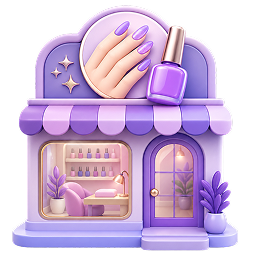
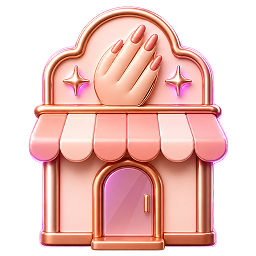
nex

diff --git a/nexora/nexora-touch-enhance.html b/nexora/nexora-touch-enhance.html
@@ -1582,13 +1582,37 @@
                         type="number" />
                     </div>
                     <!-- Chọn Cổng Thanh Toán -->
-                    <div class="pt-2 border-t border-slate-100 grid grid-cols-2 gap-1.5">
+                    <div class="pt-2 border-t border-slate-100 grid grid-cols-3 gap-1.5">
                       <button
-                        class="flex items-center justify-center bg-[#7414CA] text-white py-1.5 rounded-xl text-[10px] font-black hover:opacity-95 transition-all ds-control ds-button"
-                        onclick="confirmTip('Zelle')">Zelle (Không phí)</button>
+                        class="flex items-center justify-center gap-1 bg-[#6D1ED4] text-white py-1.5 rounded-xl text-[9px] font-black hover:opacity-90 transition-all ds-control ds-button"
+                        onclick="confirmTip('Zelle')">
+                        <svg class="w-3 h-3 shrink-0" viewBox="0 0 24 24" fill="currentColor"><path d="M12 2C6.48 2 2 6.48 2 12s4.48 10 10 10 10-4.48 10-10S17.52 2 12 2zm4.5 13.5h-5.67l5.42-7H8.5v-2h7.5l-5.42 7H16.5v2z"/></svg>
+                        Zelle</button>
                       <button
-                        class="flex items-center justify-center bg-[#0074C4] text-white py-1.5 rounded-xl text-[10px] font-black hover:opacity-95 transition-all ds-control ds-button"
-                        onclick="confirmTip('Venmo')">Venmo</button>
+                        class="flex items-center justify-center gap-1 bg-[#008CFF] text-white py-1.5 rounded-xl text-[9px] font-black hover:opacity-90 transition-all ds-control ds-button"
+                        onclick="confirmTip('Venmo')">
+                        <svg class="w-3 h-3 shrink-0" viewBox="0 0 24 24" fill="currentColor"><path d="M19.5 3.5c.83 1.37 1.2 2.78 1.2 4.57 0 5.69-4.86 13.08-8.8 13.08-1.82 0-3.36-1.69-3.99-4.5L6.6 10.9C6.17 9.05 5.43 7.5 4 7.5L4.74 6c2.06 0 4.26 2.64 4.94 5.81l.85 3.83c.4 1.77 1.1 2.5 1.8 2.5 1.66 0 4.37-5.38 4.37-8.08 0-1.72-.64-2.86-1.35-3.56L19.5 3.5z"/></svg>
+                        Venmo</button>
+                      <button
+                        class="flex items-center justify-center gap-1 bg-[#00D632] text-white py-1.5 rounded-xl text-[9px] font-black hover:opacity-90 transition-all ds-control ds-button"
+                        onclick="confirmTip('Cash App')">
+                        <svg class="w-3 h-3 shrink-0" viewBox="0 0 24 24" fill="currentColor"><path d="M12 2C6.48 2 2 6.48 2 12s4.48 10 10 10 10-4.48 10-10S17.52 2 12 2zm.88 14.76v.74h-1.5v-.72c-1.33-.18-2.28-.87-2.38-2.07h1.44c.09.55.52.92 1.35.92.87 0 1.3-.42 1.3-.98 0-.5-.32-.78-1.3-1.01l-.76-.18c-1.37-.32-2.09-1.01-2.09-2.17 0-1.14.85-1.95 2.14-2.14v-.76h1.5v.76c1.3.2 2.13.95 2.2 2.08h-1.41c-.08-.54-.48-.9-1.22-.9-.77 0-1.2.37-1.2.92 0 .49.33.76 1.22.97l.78.19c1.43.35 2.16 1.04 2.16 2.22 0 1.16-.84 2.03-2.23 2.23z"/></svg>
+                        Cash App</button>
+                      <button
+                        class="flex items-center justify-center gap-1 bg-[#1a1a1a] text-white py-1.5 rounded-xl text-[9px] font-black hover:opacity-90 transition-all ds-control ds-button"
+                        onclick="confirmTip('Apple Pay')">
+                        <svg class="w-3 h-3 shrink-0" viewBox="0 0 24 24" fill="currentColor"><path d="M18.71 19.5c-.83 1.24-1.71 2.45-3.05 2.47-1.34.03-1.77-.79-3.29-.79-1.53 0-2 .77-3.27.82-1.31.05-2.3-1.32-3.14-2.53C4.25 17 2.94 12.45 4.7 9.39c.87-1.52 2.43-2.48 4.12-2.51 1.28-.02 2.5.87 3.29.87.78 0 2.26-1.07 3.8-.91.65.03 2.47.26 3.64 1.98-.09.06-2.17 1.28-2.15 3.81.03 3.02 2.65 4.03 2.68 4.04-.03.07-.42 1.44-1.38 2.83M13 3.5c.73-.83 1.94-1.46 2.94-1.5.13 1.17-.34 2.35-1.04 3.19-.69.85-1.83 1.51-2.95 1.42-.15-1.15.41-2.35 1.05-3.11z"/></svg>
+                        Apple Pay</button>
+                      <button
+                        class="flex items-center justify-center gap-1 bg-white border border-slate-200 text-slate-700 py-1.5 rounded-xl text-[9px] font-black hover:bg-slate-50 transition-all ds-control ds-button"
+                        onclick="confirmTip('Google Pay')">
+                        <svg class="w-3 h-3 shrink-0" viewBox="0 0 24 24" fill="none"><text y="18" font-size="14" font-weight="bold" fill="#4285F4">G</text></svg>
+                        Google Pay</button>
+                      <button
+                        class="flex items-center justify-center gap-1 bg-[#2e7d32] text-white py-1.5 rounded-xl text-[9px] font-black hover:opacity-90 transition-all ds-control ds-button"
+                        onclick="confirmTip('Cash')">
+                        <svg class="w-3 h-3 shrink-0" viewBox="0 0 24 24" fill="currentColor"><path d="M11.8 10.9c-2.27-.59-3-1.2-3-2.15 0-1.09 1.01-1.85 2.7-1.85 1.78 0 2.44.85 2.5 2.1h2.21c-.07-1.72-1.12-3.3-3.21-3.81V3h-3v2.16c-1.94.42-3.5 1.68-3.5 3.61 0 2.31 1.91 3.46 4.7 4.13 2.5.6 3 1.48 3 2.41 0 .69-.49 1.79-2.7 1.79-2.06 0-2.87-.92-2.98-2.1h-2.2c.12 2.19 1.76 3.42 3.68 3.83V21h3v-2.15c1.95-.37 3.5-1.5 3.5-3.55 0-2.84-2.43-3.81-4.7-4.4z"/></svg>
+                        Cash</button>
                     </div>
                   </div>
                   <!-- Tác vụ 2: Đánh giá nhận quà tích hợp routing -->
